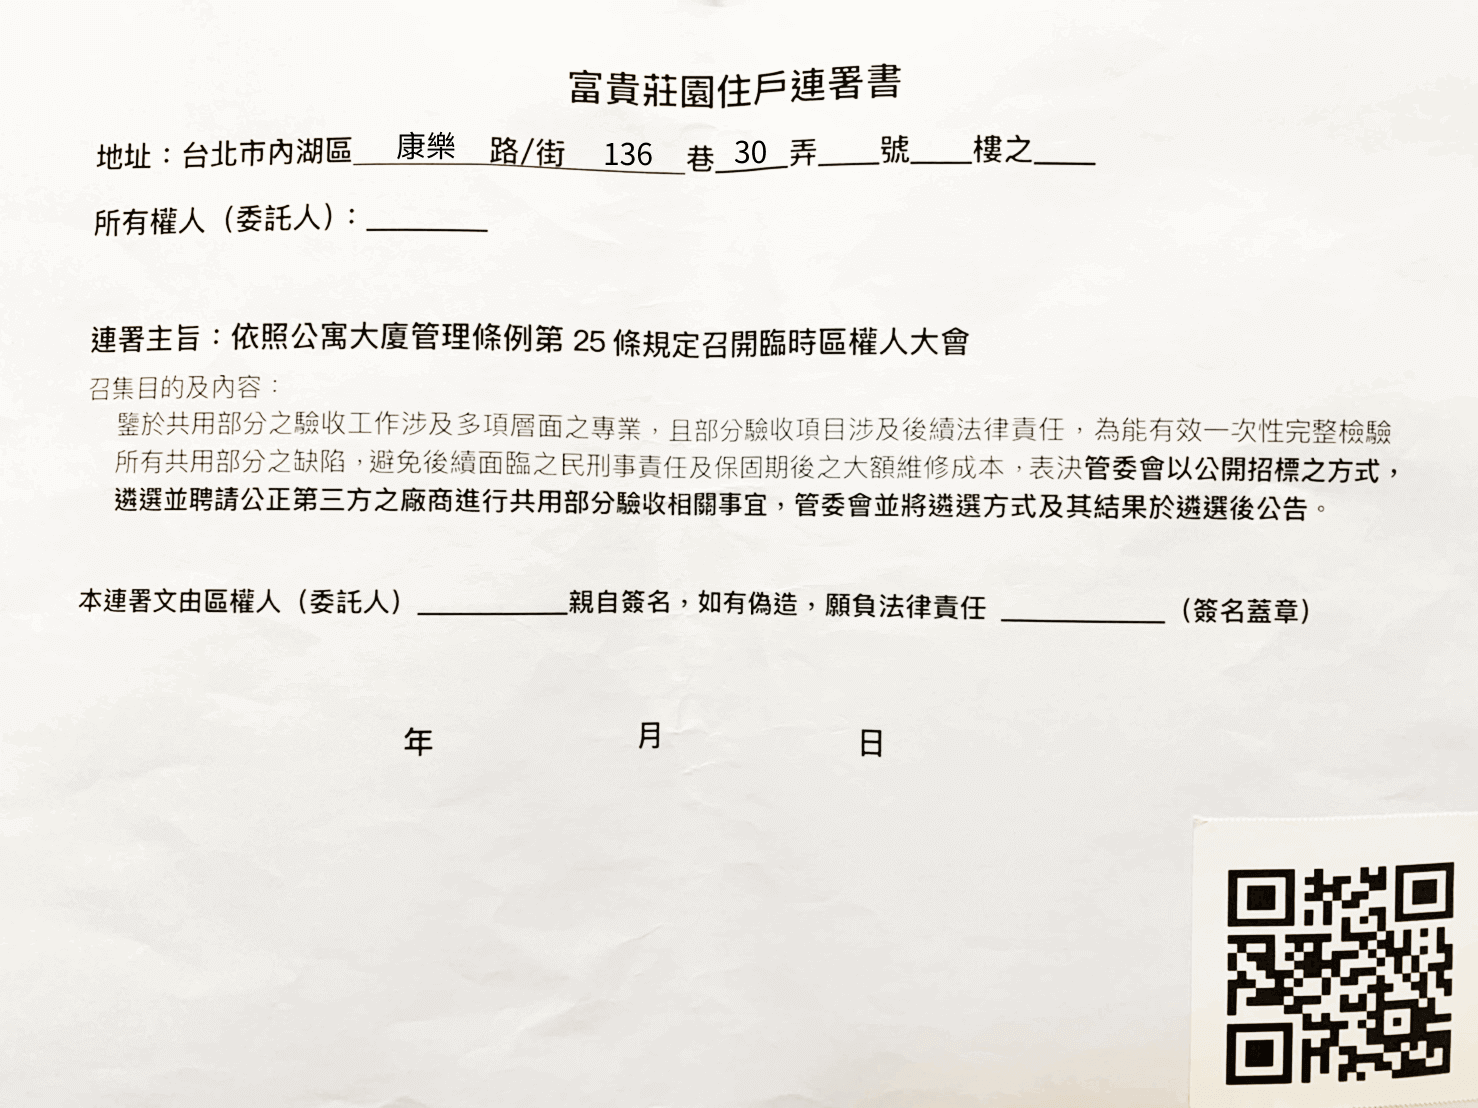
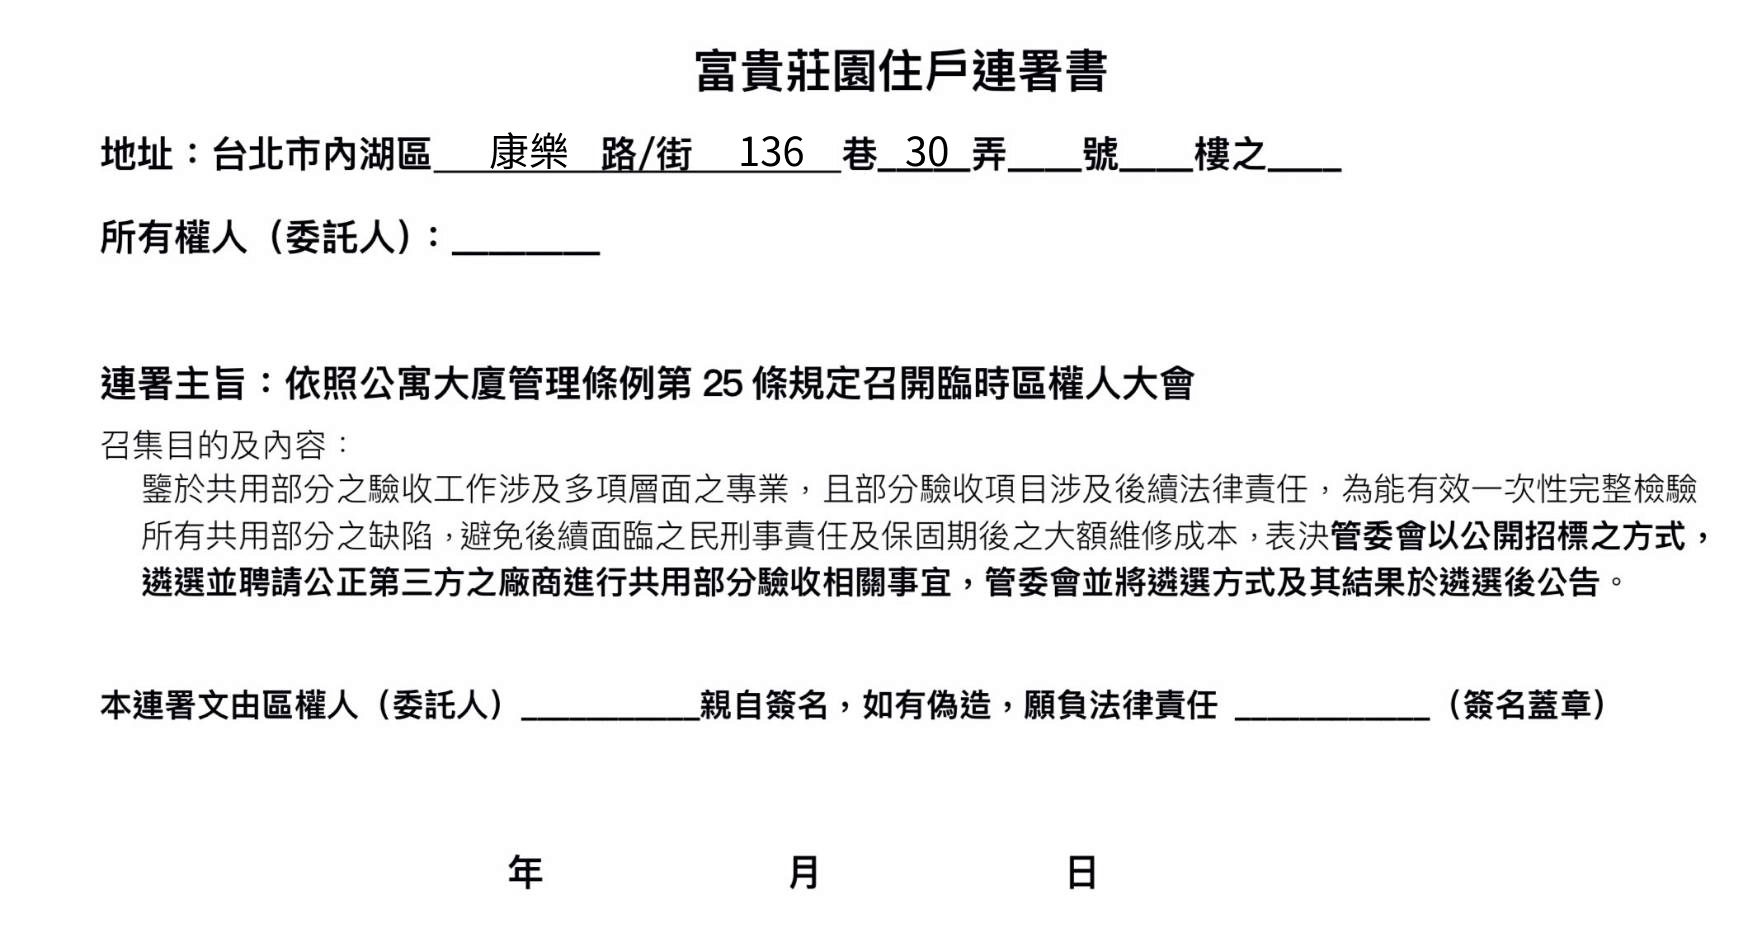
post to DB

diff --git a/src/pages/SignaturePage.js b/src/pages/SignaturePage.js
@@ -5,8 +5,12 @@ import './sign.css';
 // import SignaturePad from "signature_pad";
 
 export const SignaturePage = () => {
+  const [isSigned, setIsSigned] = useState(false);
   const [props, setProps] = useState({width: 50, height: 50});
   const DrawDOM = useRef(null);
+  const noDOM = useRef(null);
+  const floorDOM = useRef(null);
+  const ofDOM = useRef(null);
   useEffect(() => {
     window.addEventListener('resize', () => {
       setProps({
@@ -33,60 +37,125 @@ export const SignaturePage = () => {
     document.location.reload();
   }
 
-  const handleSubmit = () => {
-    console.log(DrawDOM.current.toDataURL());
+  const generatePaper = (no, floor, of) => {
     const ctx = document.getElementById('canvas').getContext('2d');
-
     var img = new Image();
     img.onload = function(){
-      ctx.drawImage(img, 364, 173, 120, 56);
-      ctx.drawImage(img, 431, 554, 120, 56);
-      ctx.drawImage(img, 1024, 564, 120, 56);
+      ctx.drawImage(img, 464, 190, 120, 56);
+      ctx.drawImage(img, 551, 654, 120, 56);
+      ctx.drawImage(img, 1274, 654, 120, 56);
       ctx.font='40px Arial';
 
       // address
-      ctx.fillText("11", 825, 160);
-      ctx.fillText("7", 931, 160);
-      ctx.fillText("1", 1055, 160);
+      ctx.fillText(no, 825 + 200, 165);
+      ctx.fillText(floor, 945 + 200, 165);
+      ctx.fillText(of, 1090 + 200, 165);
 
       const date = new Date();
       // date
-      ctx.fillText(date.getFullYear() - 1911, 308, 754);
-      ctx.fillText(date.getMonth() + 1, 528, 754);
-      ctx.fillText(date.getDate(), 748, 754);
-      // document.getElementById('canvas').style.display = 'block';
+      ctx.fillText(date.getFullYear() - 1911, 382, 886);
+      ctx.fillText(date.getMonth() + 1, 676, 886);
+      ctx.fillText(date.getDate(), 936, 886);
 
       const ctx2 = document.getElementById('canvas');
-      console.warn(ctx2.toDataURL());
-      // window.open(ctx2.toDataURL(), '_blank');
+      post2DB(ctx2.toDataURL());
 
       // eslint-disable-next-line no-use-before-define
-      const win = window.open();
-      win.document.write('<img src="'+ctx2.toDataURL()+'"/>');
+      // const win = window.open();
+      // win.document.write('<img src="'+ctx2.toDataURL()+'"/>');
     };
-    console.log(DrawDOM.current.toDataURL());
     img.src = DrawDOM.current.toDataURL();
+  }
+
+  const post2DB = base64 => {
+    fetch(base64)
+      .then(res => res.blob())
+      .then(blob => {
+        const fd = new FormData();
+        const file = new File([blob], "filename.jpeg");
+        fd.append('image', file)
+        
+        // Let's upload the file
+        // Don't set contentType manually → https://github.com/github/fetch/issues/505#issuecomment-293064470
+        const API_URL = '//localhost:3030/upload';
+        fetch(API_URL, {method: 'POST', body: fd})
+          .then(res => res.json()) 
+          .then(res => console.log(res))
+      });
+  }
+
+  const handleEnd = () => {
+    setIsSigned(true);
+  }
+
+  const handleSubmit = e => {
+    e.preventDefault();
+    generatePaper(
+      noDOM.current.value,
+      floorDOM.current.value,
+      ofDOM.current.value,
+    );
   }
 
   return (
     <div className="SignaturePage">
       <div className="hint">請把手機打橫進行簽名</div>
-      <div className="drawBlock">
-        <div className="buttonBlock">
-          <button className="buttonSubmit" onClick={handleSubmit}>簽完</button>
-          <button className="buttonClear" onClick={handleClear}>重簽</button>
+        <div className={"drawBlock" + (isSigned ? ' hide': '')}>
+          <div className="buttonBlock">
+            <button className="buttonSubmit" onClick={handleEnd}>簽完</button>
+            <button className="buttonClear" onClick={handleClear}>重簽</button>
+          </div>
+          <div className="pls" id="pls">請簽名</div>
+          <SignatureCanvas
+            className="SignatureCanvas"
+            ref={DrawDOM}
+            minWidth={4}
+            maxWidth={5}
+            onBegin={() => { document.getElementById('pls').style.display = 'none'; }}
+            canvasProps={{...props, className: 'sigCanvas'}}
+          />
         </div>
-        <div className="pls" id="pls">請簽名</div>
-        <SignatureCanvas
-          className="SignatureCanvas"
-          ref={DrawDOM}
-          minWidth={4}
-          maxWidth={5}
-          onBegin={() => { document.getElementById('pls').style.display = 'none'; }}
-          canvasProps={{...props, className: 'sigCanvas'}}
-        />
-      </div>
-      <canvas id="canvas" width="1478" height="1108" />
+      {isSigned && (
+        <form className="form" onSubmit={handleSubmit}>
+          <h1>您的地址是：</h1>
+          <select name="no" ref={noDOM}>
+            <option value="1">1號</option>
+            <option value="3">3號</option>
+            <option value="5">5號</option>
+            <option value="7">7號</option>
+            <option value="9">9號</option>
+            <option value="11">11號</option>
+            <option value="13">13號</option>
+            <option value="15">15號</option>
+            <option value="17">17號</option>
+          </select>
+          <select name="floor" ref={floorDOM}>
+            <option value="1">1樓</option>
+            <option value="2">2樓</option>
+            <option value="3">3樓</option>
+            <option value="4">4樓</option>
+            <option value="5">5樓</option>
+            <option value="6">6樓</option>
+            <option value="7">7樓</option>
+            <option value="8">8樓</option>
+            <option value="9">9樓</option>
+            <option value="10">10樓</option>
+            <option value="11">11樓</option>
+            <option value="12">12樓</option>
+            <option value="13">13樓</option>
+            <option value="14">14樓</option>
+            <option value="15">15樓</option>
+          </select>
+          <select name="of" ref={ofDOM}>
+            <option value="">本號</option>
+            <option value="1">之1</option>
+            <option value="2">之2</option>
+            <option value="3">之3</option>
+          </select>
+          <button>送出</button>
+        </form>
+      )}
+      <canvas id="canvas" width="1762" height="928" />
     </div>
   )
 }

diff --git a/src/pages/sign.css b/src/pages/sign.css
@@ -7,6 +7,10 @@
   background-color: #fff;
 }
 
+.hide.hide.hide.hide.hide {
+  display: none;
+}
+
 @media screen and (orientation: portrait) {
 
   .hint {
